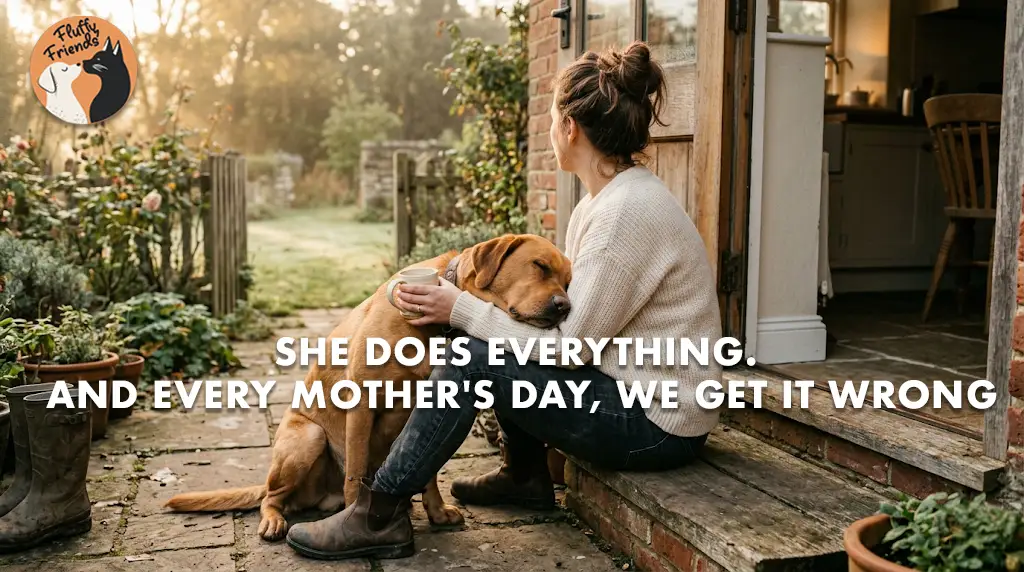
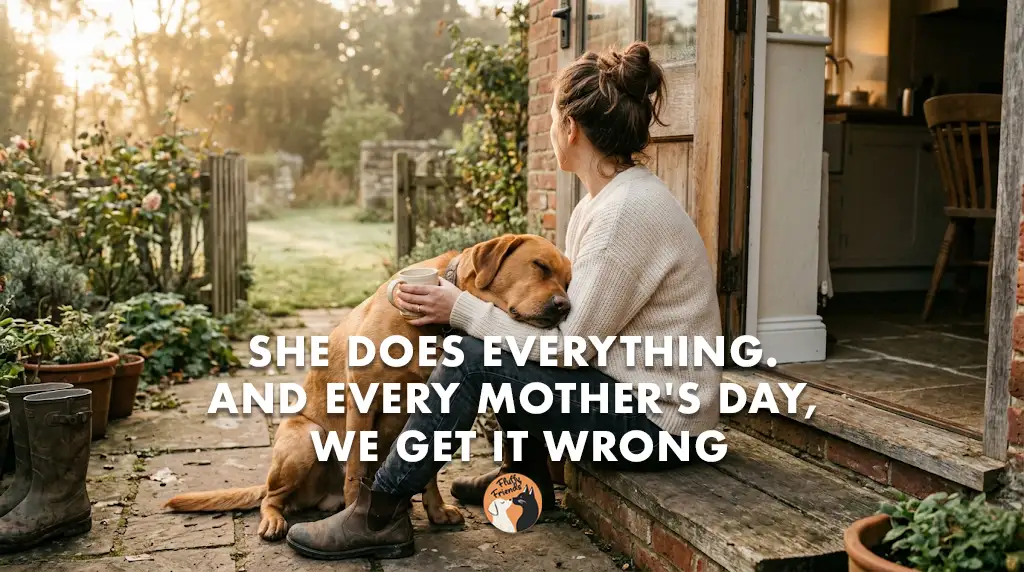
Fix blog cover image layout (natural aspect, no letterboxing)
- Remove fixed16:10 aspect + object-contain on blog index and article hero
- Use block w-full h-auto so cover fills width without gaps- Include gift-section and updated mothers day blog asset

Made-with: Cursor

Changed region(s): [[0.0312, 0.5647, 1.0, 0.951], [0.0, 0.0297, 0.1562, 0.2378]]

diff --git a/components/gift-section.tsx b/components/gift-section.tsx
@@ -1,0 +1,52 @@
+import { Cake, TreePine, Heart, Gift } from "lucide-react"
+import { GiftWaitlist } from "@/components/gift-waitlist"
+
+const occasions = [
+  { icon: Cake, label: "Birthday" },
+  { icon: TreePine, label: "Christmas" },
+  { icon: Heart, label: "In memory of" },
+  { icon: Gift, label: "Just because" },
+]
+
+export function GiftSection() {
+  return (
+    <section id="gifts" className="relative py-14 md:py-20">
+      <div className="mx-auto max-w-7xl px-4 sm:px-6">
+        <div className="mx-auto max-w-2xl text-center">
+          <p className="text-sm font-medium uppercase tracking-widest text-primary">
+            Give a portrait
+          </p>
+          <h2 className="mt-3 text-balance text-3xl font-extrabold tracking-tight text-foreground sm:text-4xl">
+            The most thoughtful gift for any pet lover.
+          </h2>
+          <p className="mt-4 text-pretty text-muted-foreground">
+            A personalised portrait of their pet — for their birthday, for Christmas, or to keep a beloved companion close forever. Choose an occasion, write from the heart, and we&apos;ll do the rest.
+          </p>
+        </div>
+
+        <div className="mt-10 flex flex-wrap justify-center gap-3">
+          {occasions.map((occ) => {
+            const Icon = occ.icon
+            return (
+              <span
+                key={occ.label}
+                className="inline-flex items-center gap-2 rounded-organic-sm border border-border bg-card px-4 py-2.5 text-sm font-medium text-foreground shadow-sm"
+              >
+                <Icon className="h-4 w-4 text-primary" aria-hidden />
+                {occ.label}
+              </span>
+            )
+          })}
+        </div>
+
+        <p className="mx-auto mt-10 max-w-xl text-center text-sm leading-relaxed text-muted-foreground">
+          You choose a package, write a personal message, and enter their email address. We send them a beautiful gift card with your message — they upload their pet&apos;s photo, choose a theme, and create their portrait in their own time. No account needed. No rush.
+        </p>
+
+        <div className="mt-10 flex justify-center">
+          <GiftWaitlist />
+        </div>
+      </div>
+    </section>
+  )
+}

diff --git a/app/blog/page.tsx b/app/blog/page.tsx
@@ -53,14 +53,14 @@ export default function BlogIndexPage() {
                     href={`/blog/${post.slug}`}
                     className="group block h-full rounded-organic border border-border bg-card overflow-hidden transition-shadow hover:shadow-md hover:border-primary/30"
                   >
-                    <div className="relative aspect-[16/10] overflow-hidden bg-muted">
+                    <div className="relative overflow-hidden bg-muted">
                       {post.coverImage ? (
                         <>
                           {/* eslint-disable-next-line @next/next/no-img-element */}
                           <img
                             src={post.coverImage}
                             alt={post.coverImageAlt || post.title}
-                            className="h-full w-full object-contain object-center transition-transform duration-300 group-hover:scale-[1.02]"
+                            className="block h-auto w-full transition-transform duration-300 group-hover:scale-[1.02]"
                           />
                         </>
                       ) : (

diff --git a/app/blog/[slug]/page.tsx b/app/blog/[slug]/page.tsx
@@ -130,12 +130,12 @@ export default async function BlogArticlePage({ params }: PageProps) {
 
           <header className="mx-auto w-full min-w-0 max-w-[680px]">
             {frontmatter.coverImage ? (
-              <div className="relative mb-8 w-full overflow-hidden rounded-organic border border-border bg-muted aspect-[16/10]">
+              <div className="relative mb-8 w-full overflow-hidden rounded-organic border border-border bg-muted">
                 {/* eslint-disable-next-line @next/next/no-img-element */}
                 <img
                   src={frontmatter.coverImage}
                   alt={frontmatter.coverImageAlt || frontmatter.title}
-                  className="absolute inset-0 h-full w-full object-contain object-center"
+                  className="block h-auto w-full"
                   sizes="(max-width: 680px) calc(100vw - 2rem), 680px"
                   loading="eager"
                   fetchPriority="high"
